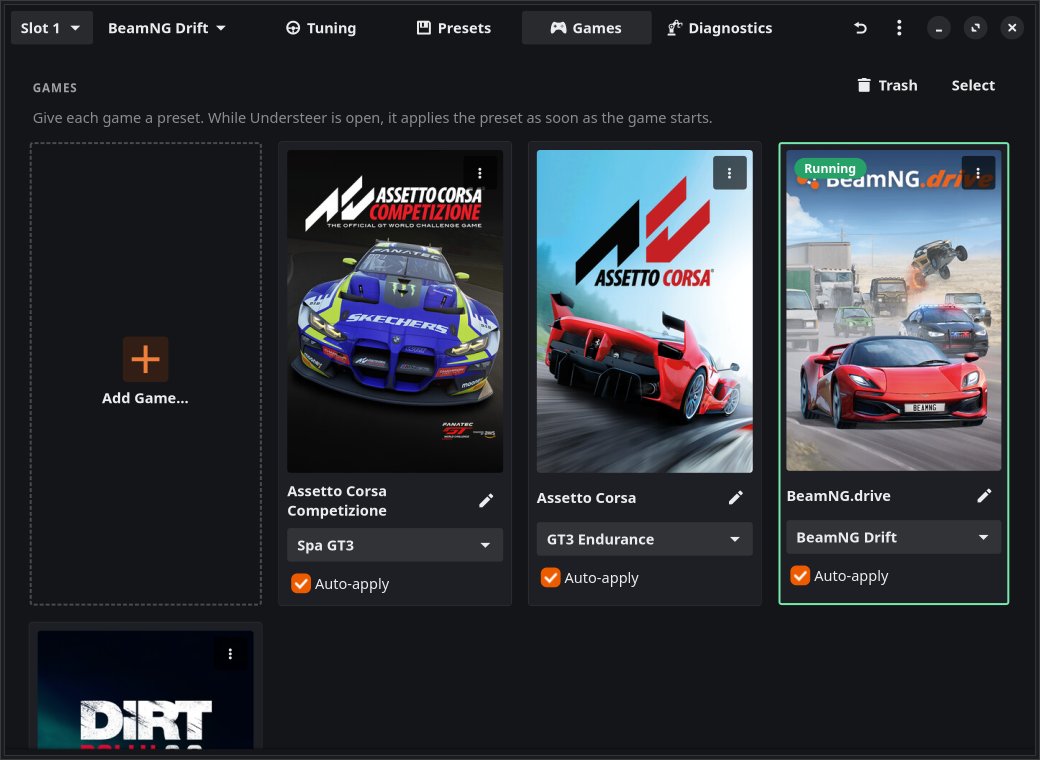
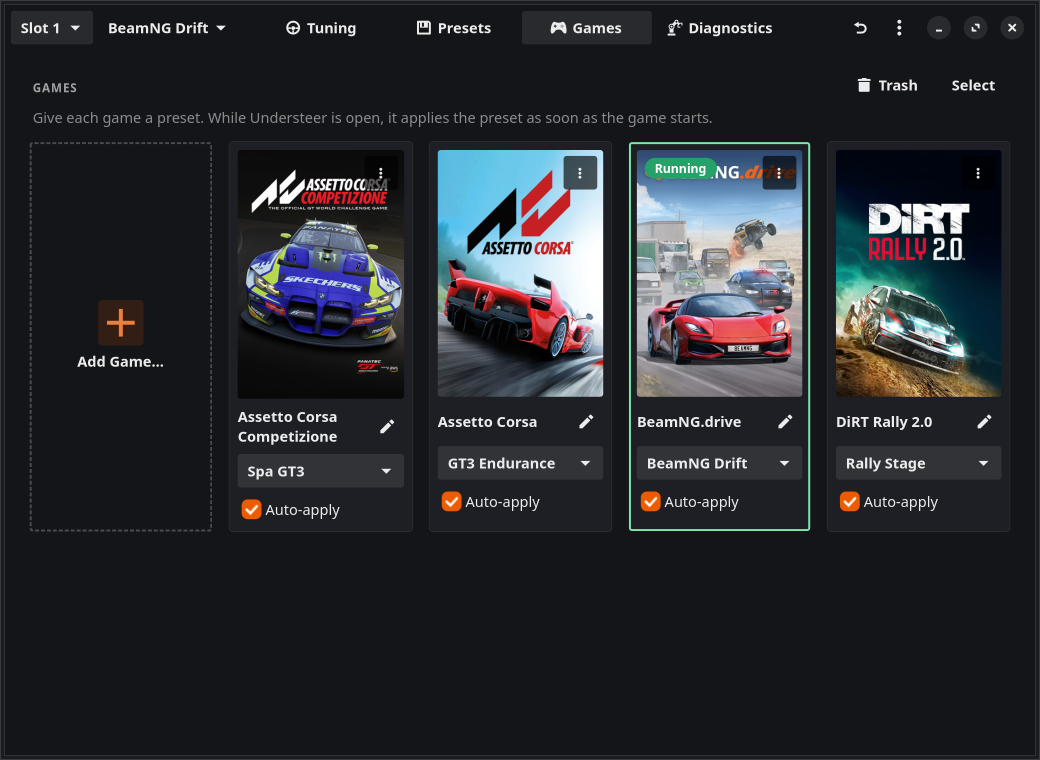
Fit Add Game and four games into a row at 1040 px
The game tiles ask for 6 px less, so the games page shows five tiles
side by side in the window size of the screenshots, as before.

diff --git a/understeer/ui/style.css b/understeer/ui/style.css
@@ -274,12 +274,12 @@ button.advanced-toggle {
 /* Games */
 .games flowbox > flowboxchild > .tile,
 .games flowbox > flowboxchild > overlay > .tile {
-  min-width: 170px;
+  min-width: 164px;     /* "Add Game…" and four games side by side at 1040 px */
 }
 
 .compact .games flowbox > flowboxchild > .tile,
 .compact .games flowbox > flowboxchild > overlay > .tile {
-  min-width: 140px;
+  min-width: 134px;
 }
 
 .game-tile {
@@ -298,12 +298,12 @@ flowbox > flowboxchild > .tile.new-preset {
 }
 
 .games flowbox > flowboxchild > .tile.new-preset {
-  min-width: 166px;
+  min-width: 160px;
   padding: 8px 8px 10px 8px;
 }
 
 .compact .games flowbox > flowboxchild > .tile.new-preset {
-  min-width: 136px;
+  min-width: 130px;
   padding: 8px 12px 6px 12px;
 }
 
